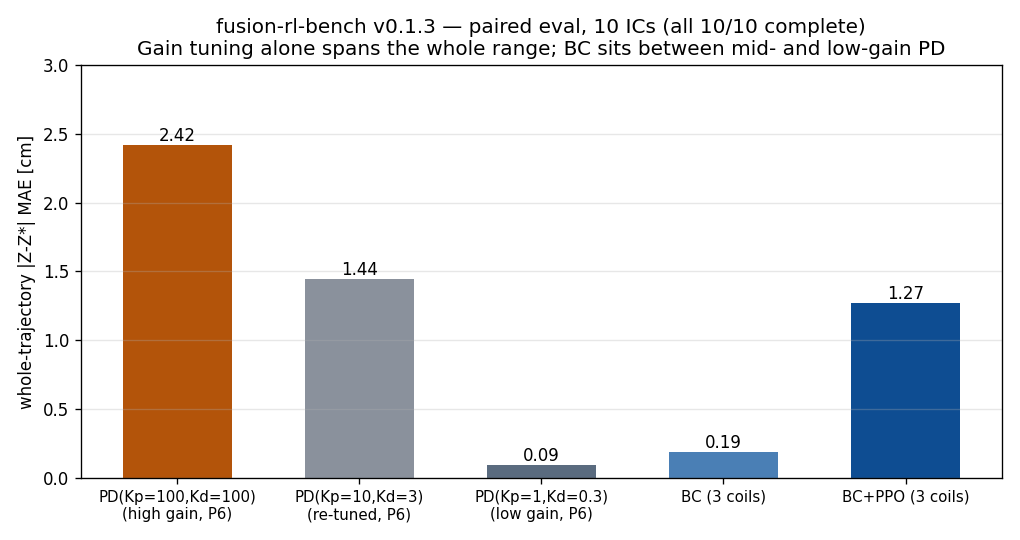
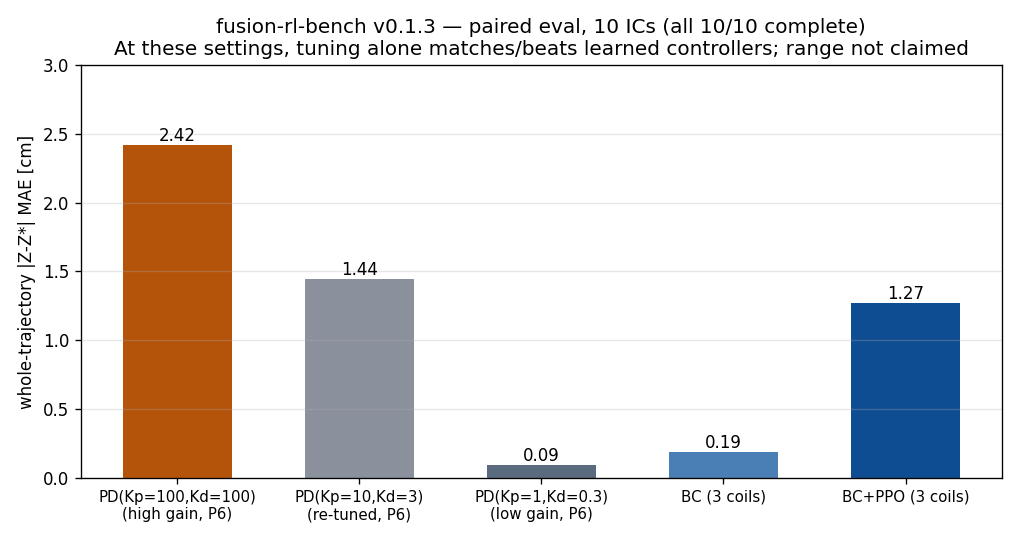
publish proofread: figure title limited to current results; W06 smoothing claim annotated as retracted in-place

Changed region(s): [[0.1216, 0.0593, 0.9422, 0.1185]]

diff --git a/notebooks/W06-BC预热与RL微调-可核查实验修订.md b/notebooks/W06-BC预热与RL微调-可核查实验修订.md
@@ -75,7 +75,7 @@ BC_INIT=code/fusion-rl-bench/runs/bc_policy.pt .venv-gs/Scripts/python -X utf8 -
 | **BC（线性输出头，新版）** | **0.19 cm** |
 | PPO（冻结模型，16,128 步，初始化自旧版 BC） | 1.27 cm |
 
-**轨迹诊断（关键发现）**：同初始条件下，PD(100/100) 动作在 +1/-1 间振荡（饱和限幅注入极限环），PD(10/3) 减弱但仍振荡；BC 动作为平滑小幅（<0.06），位置偏差平滑衰减。即 **BC 从带噪专家数据学到"去噪平滑化"的控制律，消除了手工 PD 的振荡**——这解释了"学生超过老师"。注意：LQR 在线性系统上同样是平滑控制器，很可能追平 BC——**LQR 对比是判定本现象价值的前置实验**（阶段 B 第一项）。
+**轨迹诊断（关键发现，⚠ 已被 v0.1.3 复核降级）**：同初始条件下，PD(100/100) 动作在 +1/-1 间振荡（饱和限幅注入极限环），PD(10/3) 减弱但仍振荡；BC 动作为平滑小幅（<0.06），位置偏差平滑衰减。~~即 BC 从带噪专家数据学到"去噪平滑化"的控制律，消除了手工 PD 的振荡~~ **【v0.1.3 起撤回此确定解释】**：低增益 PD(1,0.3) 不调任何学习方法即可取得更低误差（0.09cm），故"BC 平滑化"仅保留为机制假说；轨迹对照实际证明的是"高增益饱和会注入振荡，低增益或平滑控制可避免"。
 另注：PPO 微调模型初始化自旧版 Tanh 头 BC，与新版 BC 的归因须分开；当前 PPO（1.27）低于新 BC（0.19），"RL 微调贡献"待消融（BC / 迁移未微调 / 微调后三版本对照）。
 
 数据：`results/fair_eval_v012.json`；图：`assets/fair_eval_v012.png`、`assets/traj_diagnosis.png`。
